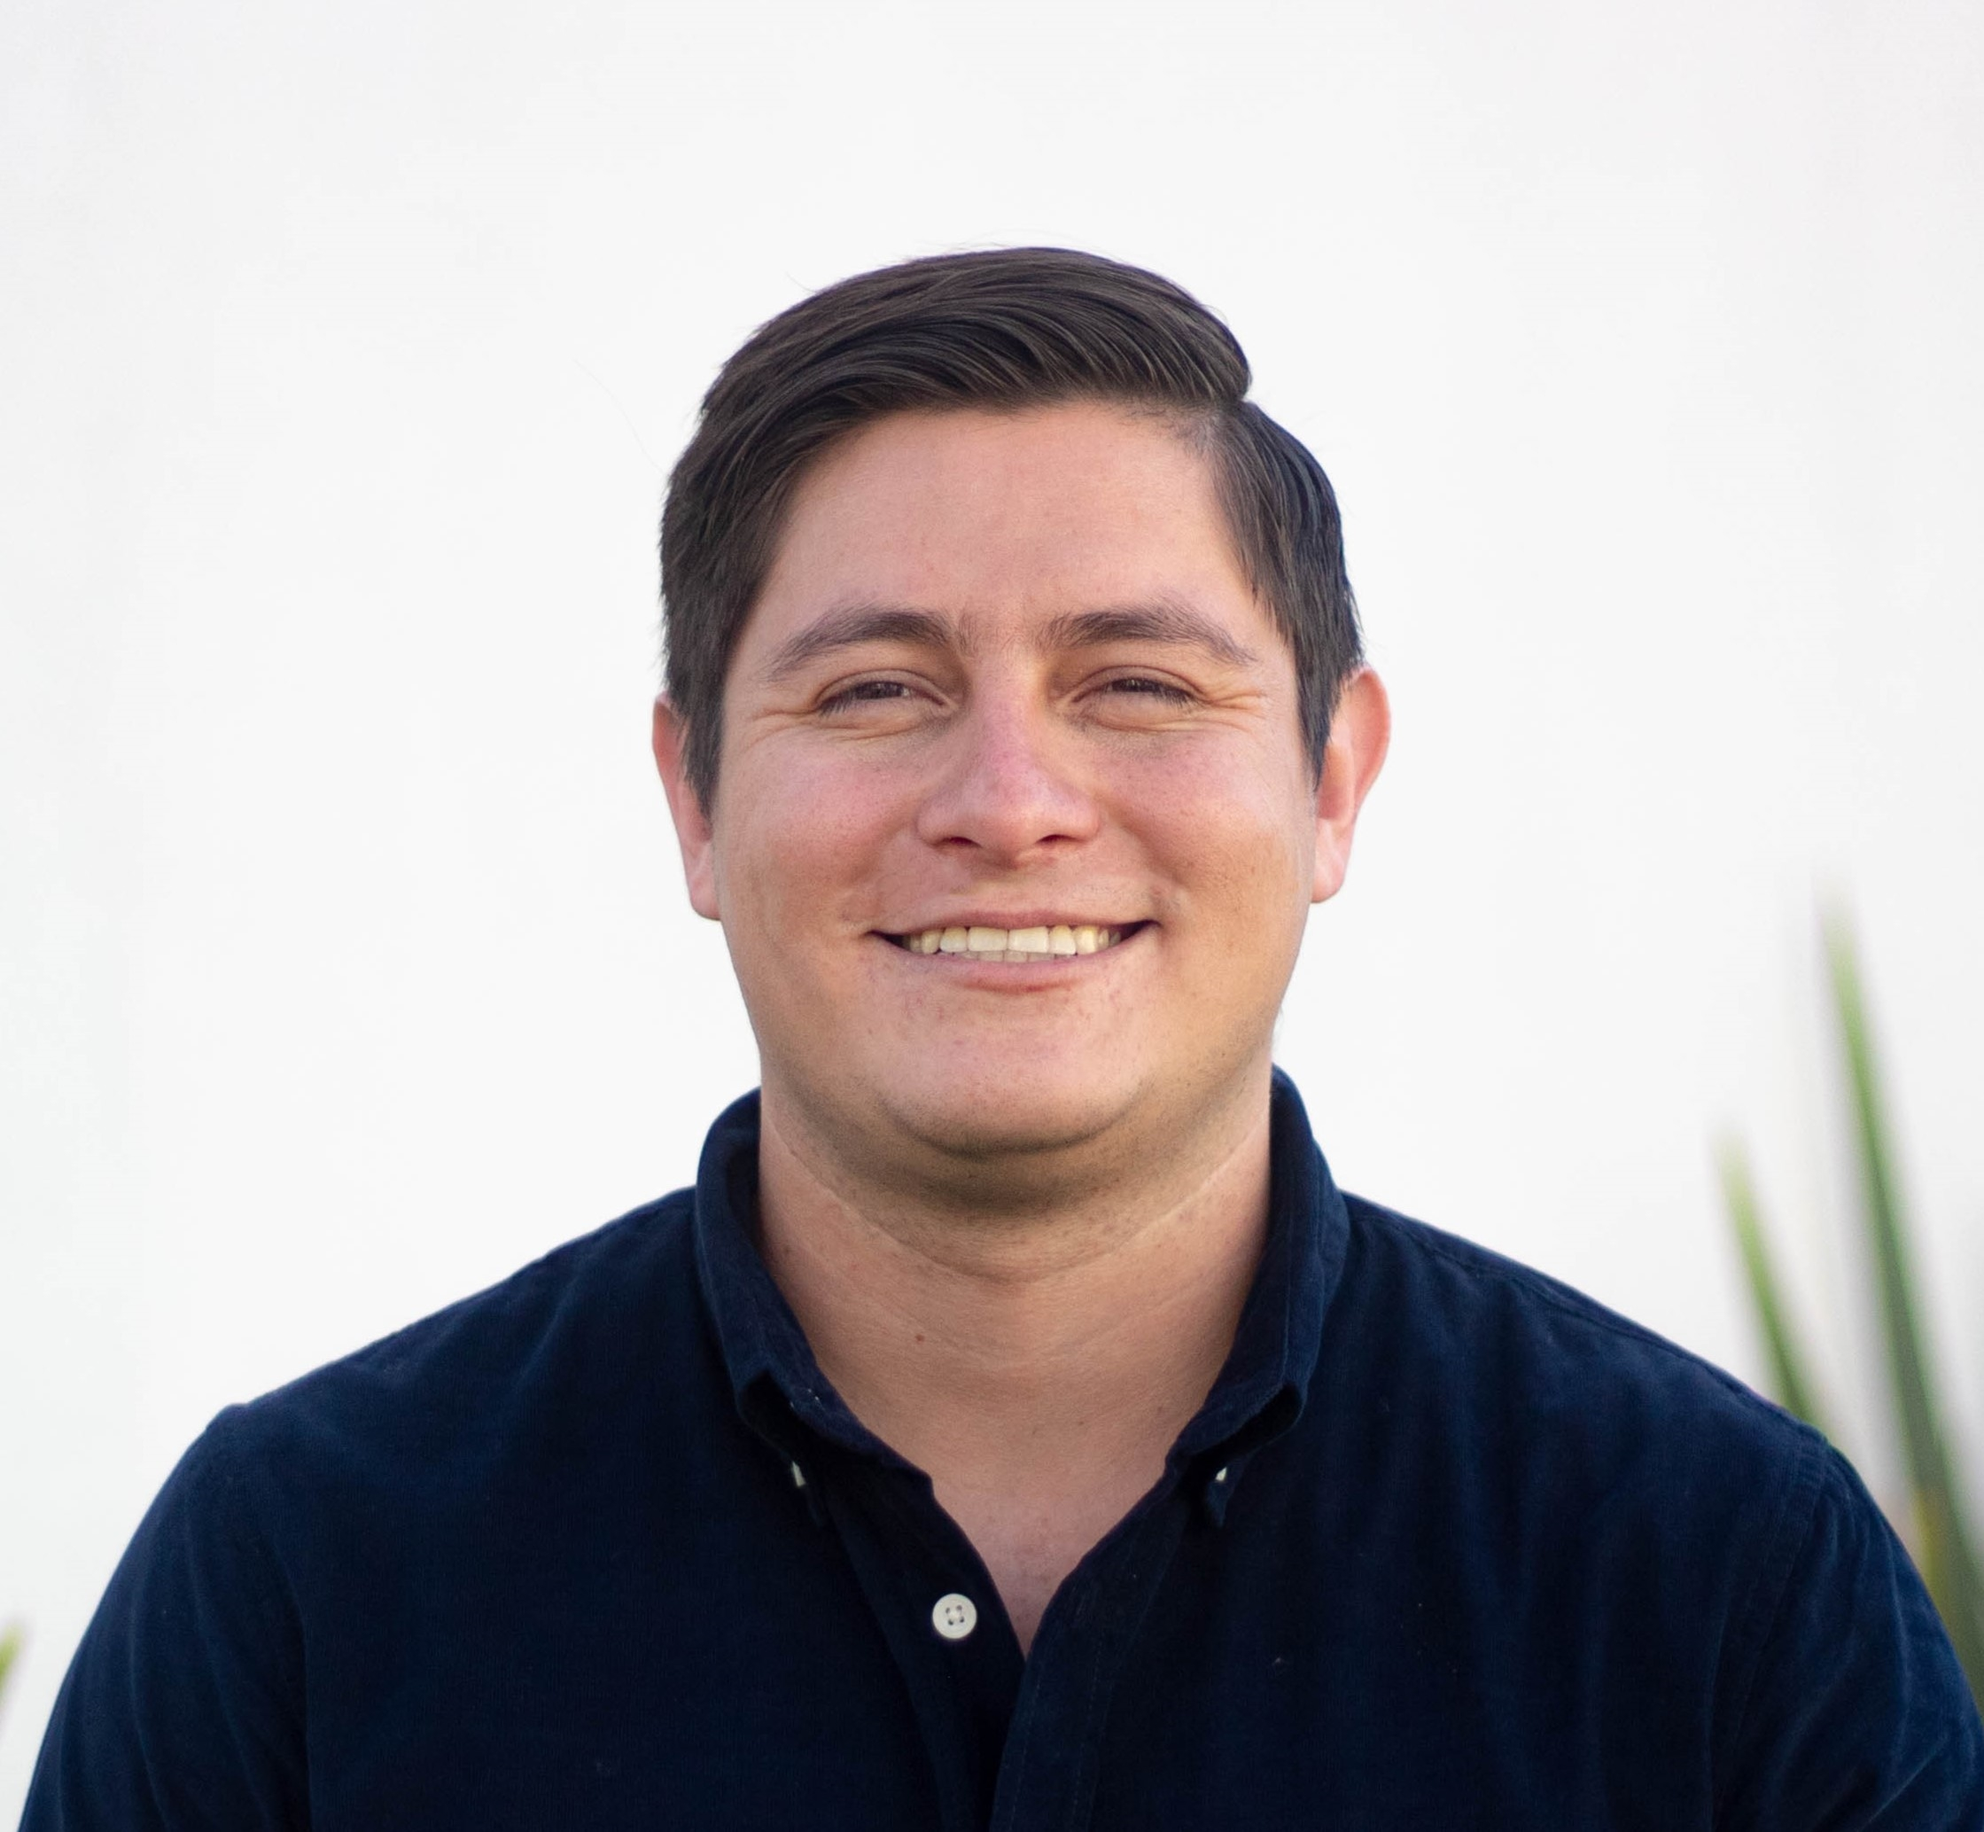
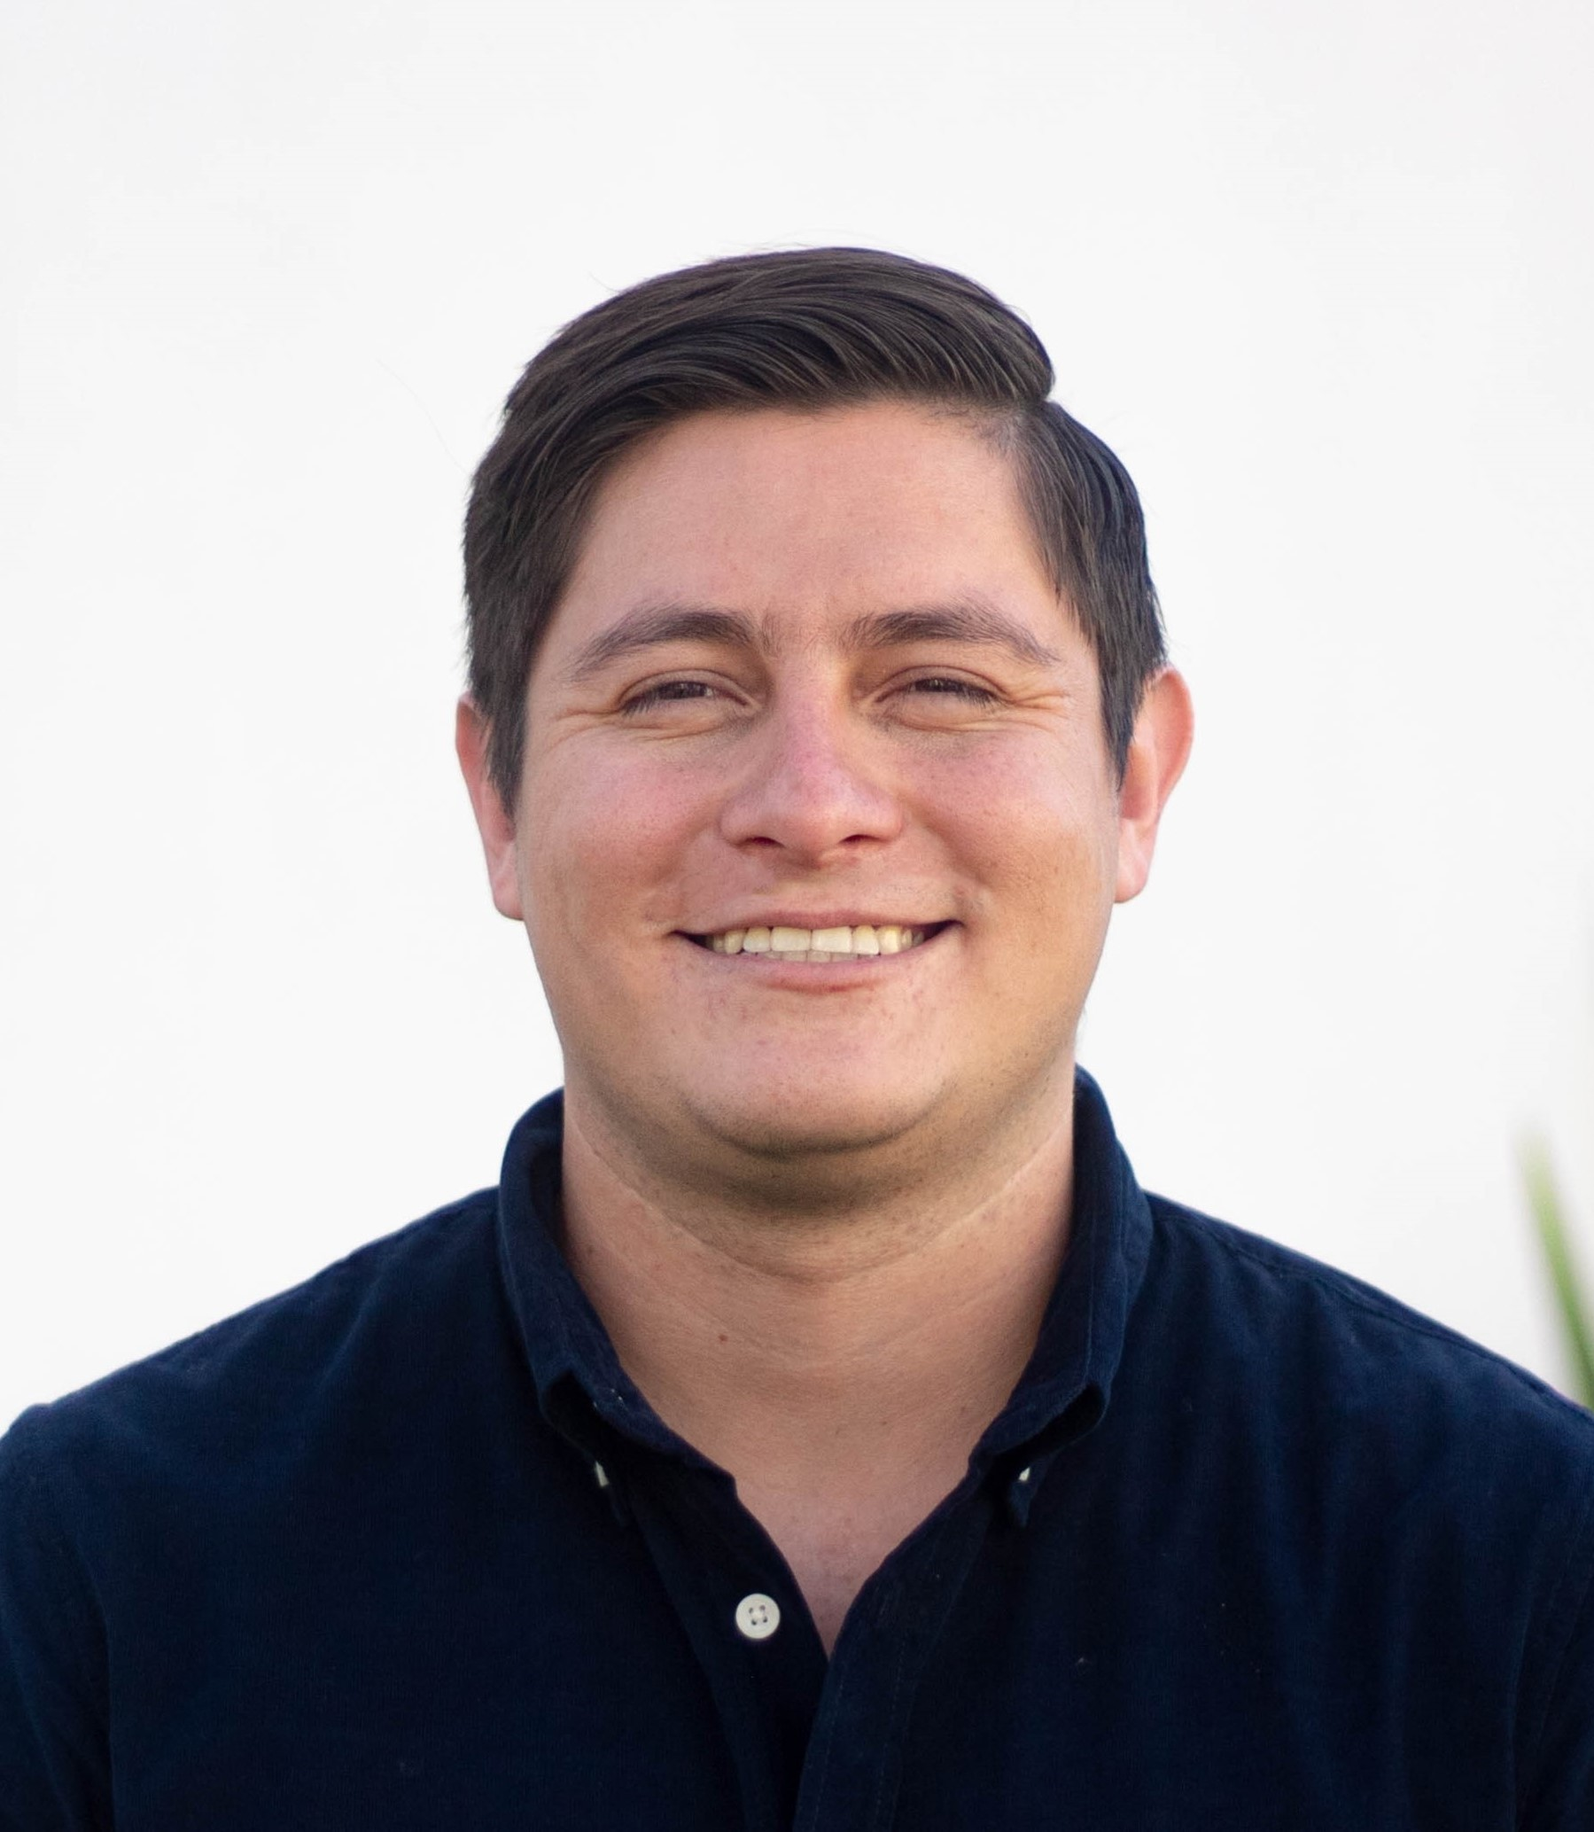
footer en about

Changed region(s): [[0.0, 0.1239, 1.0, 1.0], [0.4047, 0.4335, 0.4669, 0.4644], [0.716, 0.7741, 0.7471, 0.805]]

diff --git a/src/pages/About.jsx b/src/pages/About.jsx
@@ -2,6 +2,7 @@ import React from 'react'
 import Profiles from '../components/Profiles'
 import Nav from '../components/Navbar'
 import BuazanRoundedLogo from '/src/assets/Blue-round-Logo.png'
+import BauzanRoundedRedLogo from '/src/assets/Red-round-Logo.png'
 
 
 const About = () => {
@@ -22,8 +23,23 @@ const About = () => {
     <p class="mx-20 mt-4 text-gray-500 dark:text-gray-400">Nos enorgullece ser una empresa tecnológica pequeña pero con alcance internacional, donde más del 50% de nuestros colaboradores son mujeres, un logro destacado en la industria tecnológica. Además, contamos con presencia en México, España, Brasil y Estados Unidos, lo que garantiza nuestra disponibilidad para ayudarte sin importar tu zona horaria o tu idioma de preferencia.</p>
 
         <Profiles/>
-    </section>
     
+    
+    <div className='h-5'></div>
+	<footer className="bg-white rounded-lg max-h-full mt-4 sm:flex sm:flex-col sm:text-center sm:justify-between ">
+		<div className="w-full max-w-screen-xl mx-auto md:py-8 lg:px-8">
+			<div className="lg:flex lg:flex-row lg:justify-between sm:flex sm:flex-row sm:justify-between flex flex-col items-center space-y-7 mt-4 md:mt-0">
+				<a href="https://www.bauzantech.com/" className="flex w-auto items-center mb-4  space-x-3 rtl:space-x-reverse">
+					<img src={BauzanRoundedRedLogo} className="h-12 sm:hidden md:flex" />
+				</a>
+				<ul className="flex flex-wrap items-center mb-6 text-xs font-semibold text-gray-500 sm:mb-0 ">
+					<span className="block text-sm text-gray-500 sm:text-center ">© 2024 <a href="https://www.bauzantech.com/" className="hover:underline">Bauzan Tech Solutions</a>. All Rights Reserved.</span>
+				</ul>
+			</div>
+		</div>
+	</footer>
+
+  </section>
 
   )
 }

diff --git a/src/components/Profiles.jsx b/src/components/Profiles.jsx
@@ -4,7 +4,10 @@ import mexflag from '../assets/flag.png'
 import spainflag from '../assets/spain.png'
 import usflag from '../assets/estados-unidos.png'
 // import brflag from '../assets/brasil.png'
-import Bauzan from '../assets/bauzan_img.jpg'
+// import Bauzan from '../assets/bauzan_img.jpg'
+// import Bauzan2 from '../assets/bauzan_img_2.jpg'
+// import Bauzan3 from '../assets/bauzan_img_3.jpg'
+import Bauzan4 from '../assets/bauzan_img_4.jpg'
 import Santi from '../assets/fotosanti.png'
 import Melanie from '../assets/Melanie.jpg'
 import React from 'react'
@@ -25,7 +28,7 @@ const Profiles = () => {
     <div className="flex flex-col items-center py-8">
       
         <div className='m-4'>
-        <img src={Bauzan} className='w-32 h-32 mb-3 rounded-full shadow-lg' />
+        <img src={Bauzan4} className='w-32 h-32 mb-3 rounded-full shadow-lg' />
         </div>
 
         <h5 className="mb-1 text-xl font-medium text-gray-900">Osvaldo Bauzan</h5>

diff --git a/src/components/Navbar.tsx b/src/components/Navbar.tsx
@@ -21,7 +21,7 @@ const Nav = ({ logo }) => {
         </Navbar.Link>
         </Link>
 
-        <Navbar.Link href="#"  className="flex font-bold items-center px-4 mb-1 xl:text-xl hover:text-green-bauzan hover:border-b-2-green-bauzan transition ease-in-out delay-150 hover:translate-y-1 hover:scale-110 duration-300">Pricing</Navbar.Link>
+        <Navbar.Link href="#"  className="flex font-bold items-center px-4 mb-1 xl:text-xl hover:text-green-bauzan hover:border-b-2-green-bauzan transition ease-in-out delay-150 hover:translate-y-1 hover:scale-110 duration-300">Clients</Navbar.Link>
         <Navbar.Link href="#"  className="flex font-bold items-center px-4 mb-1 xl:text-xl hover:text-green-bauzan hover:border-b-2-green-bauzan transition ease-in-out delay-150 hover:translate-y-1 hover:scale-110 duration-300">Contact</Navbar.Link>
       </Navbar.Collapse>
     </Navbar>

diff --git a/src/pages/Home.jsx b/src/pages/Home.jsx
@@ -33,7 +33,7 @@ const Home = () => {
 			<img src={imageHero} alt="" className="object-contain h-72 sm:h-80 lg:h-96 xl:h-112 2xl:h-128 transition ease-in-out delay-150 hover:translate-y-1 hover:scale-110 duration-700" />
 		</div>
 	</div>
-	<div className='h-2'></div>
+	<div className='h-5'></div>
 	<footer className="bg-white rounded-lg max-h-full mt-4 sm:flex sm:flex-col sm:text-center sm:justify-between ">
 		<div className="w-full max-w-screen-xl mx-auto md:py-8 lg:px-8">
 			<div className="lg:flex lg:flex-row lg:justify-between sm:flex sm:flex-row sm:justify-between flex flex-col items-center space-y-7 mt-4 md:mt-0">
